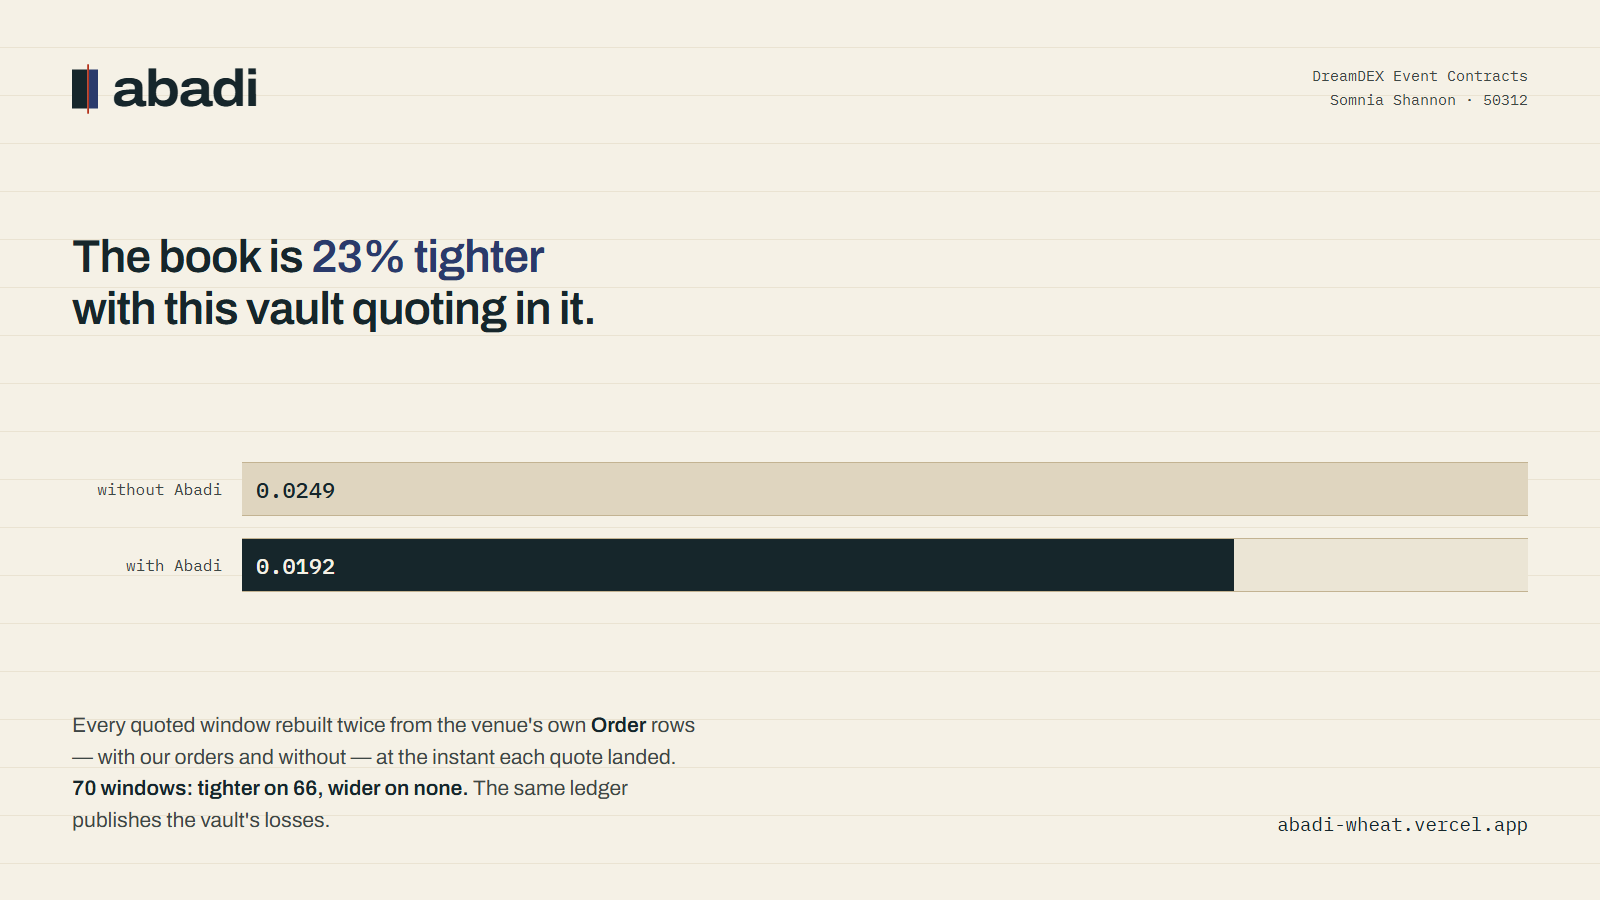
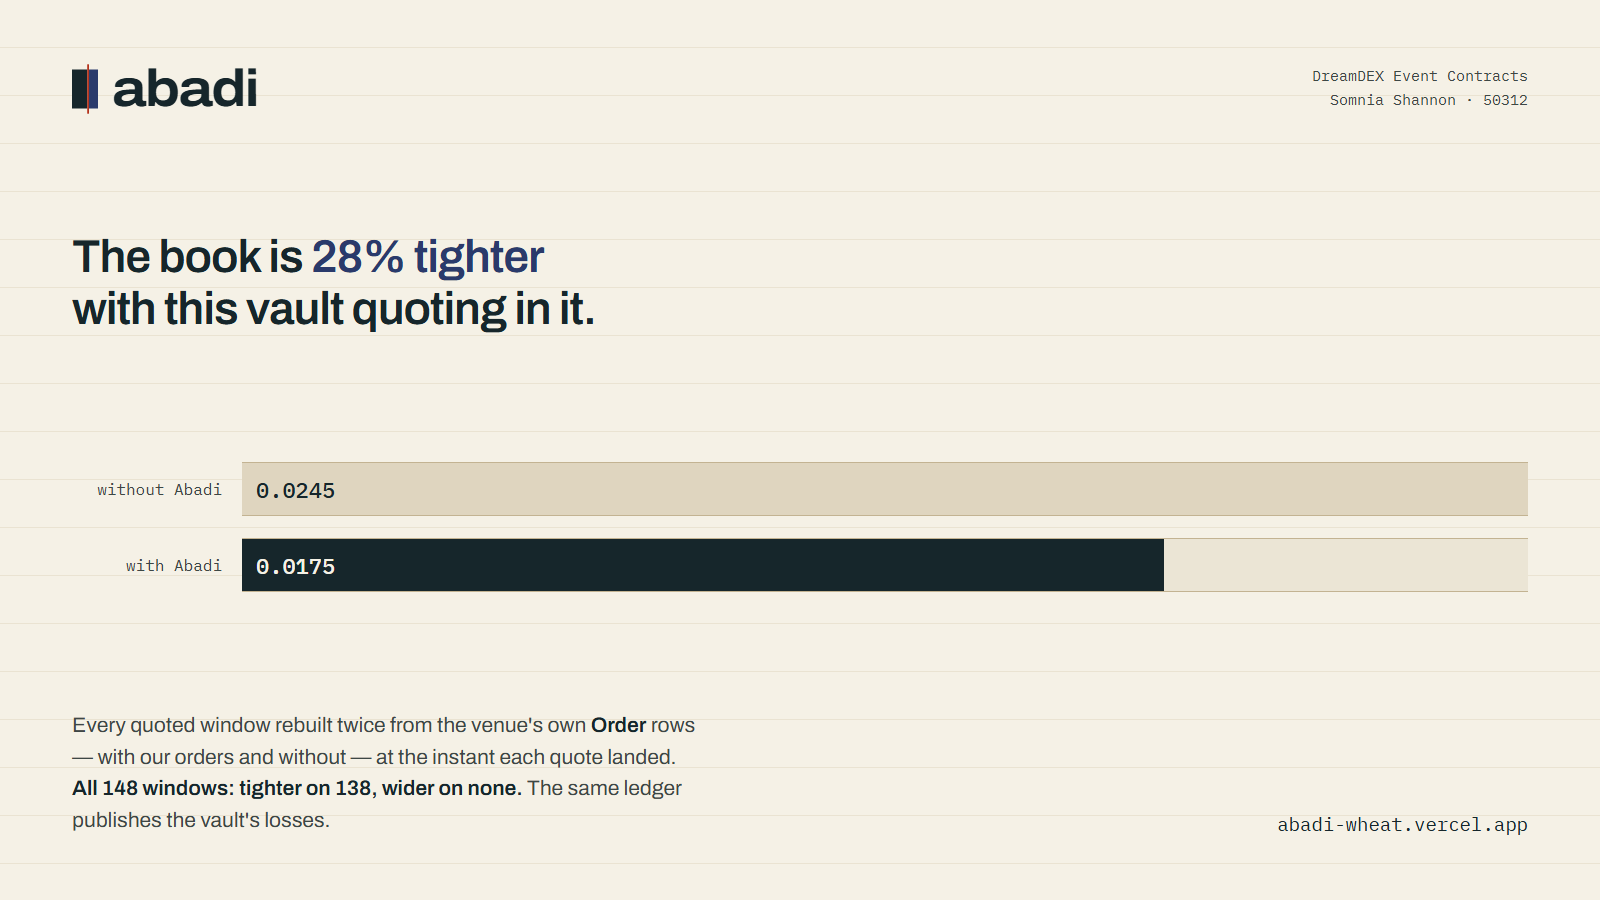
Every window, not seventy of them: the book is 28% tighter
The measurement that has been the headline of this project ran to completion for the
first time. 148 windows, 148 scored, none refused, in 76 minutes.

    without Abadi   0.0245   24.48 ticks
    with Abadi      0.0175   17.55 ticks
    difference      0.0069    6.93 ticks tighter, 28% narrower

Tighter on 138, unchanged on 10, widened on 0.

The 2026-08-31 figure it replaces — 0.0249 vs 0.0192, 5.8 ticks, 23% — was 70 windows
out of the 72 that existed, two lost to indexer timeouts. Every place that cited it said
"70 windows" carefully, and SUBMISSION.md carried an explicit instruction not to call
them "every window we have quoted", because they were not.

They are now. That instruction is replaced by the condition that earns it: the sentence
is true only while the run behind it refuses nothing, and this one refused nothing.

Updated together, because a number that lives in seven places goes stale in six of them:
the hero, the README, both submission taglines (the 256-character one recounted at 252),
the pitch and Telegram drafts, llms.txt, the demo fact-check table, and the social card —
whose bar is redrawn to 71.7% because that is what 0.0175 is of 0.0245.

The evidence file is renamed to the day it was actually measured. It was called
impact-2026-09-07.md because that is when the task was created; every window in it was
read on the 8th.

Claude-Session: https://claude.ai/code/session_014GALnvE5t1w2idhVso9Kiv

Changed region(s): [[0.0312, 0.8711, 0.4375, 0.9022], [0.7188, 0.5911, 0.7812, 0.6533], [0.1875, 0.6222, 0.2188, 0.6533]]

diff --git a/app/page.tsx b/app/page.tsx
@@ -59,9 +59,10 @@ export default function Home() {
         <div className="offer">
           <div className="proof">
             <span className="k">measured</span>
-            <b>0.0249 → 0.0192</b>
+            <b>0.0245 → 0.0175</b>
             <span>the venue's own spread, without this vault and with it — rebuilt from its
-            order rows over 70 windows, tighter on 66 and wider on none</span>
+            order rows across every one of the 148 windows this vault has quoted, tighter
+            on 138 and wider on none</span>
           </div>
           <div className="acts">
             <a className="btn primary" href="/app">Open the app</a>

diff --git a/SUBMISSION.md b/SUBMISSION.md
@@ -38,22 +38,31 @@ Abadi
 
 **Vision** — the one paragraph that appears on the card. **The form's hard limit is 256
 characters**, not the ~350 this file said until the form refused a 331-character paragraph.
-This is 249, which leaves seven for a smart quote:
+This is 252, which leaves four:
 
 ```
-An ERC-4626 vault that market-makes DreamDEX Event Contracts holding no inventory: the pool mints a pair worth exactly 1 either way. Rebuilt from the venue's own order rows over 70 windows, the book is 23% tighter with Abadi in it. Losses published.
+An ERC-4626 vault that market-makes DreamDEX Event Contracts holding no inventory: the pool mints a pair worth exactly 1 either way. Rebuilt from the venue's own rows over all 148 windows it quoted, the book is 28% tighter with Abadi. Losses published.
 ```
 
 What went to make it fit, in order of what was least load-bearing: the mechanism sentence
 ("two opposite buys cross") — "holding no inventory" and "a pair worth exactly 1 either way"
-carry it between them — and "the ledger publishes the losses too" shortened to two words.
-What did NOT go: **70 windows**. The sample size is what makes 23% a measurement rather than
-a boast, and it is the one claim in this field nobody else makes.
+carry it between them — "order rows" to "rows", and "the ledger publishes the losses too"
+shortened to two words. What did NOT go: **all 148 windows**. The sample is what makes 28% a
+measurement rather than a boast, and it is the one claim in this field nobody else makes.
+
+The word to be careful with is **all**. The 2026-08-31 version said "70 windows" because 70
+was what that run scored — it lost two to indexer timeouts and there were 72. The
+2026-09-08 run scored every window this vault has ever quoted and refused none, which is a
+different and stronger sentence. Do not write "all" again without checking that the run
+behind it still refused nothing.
+
+Note that 28% is the mean spread across the 148, not a claim about each one: 138 tightened,
+10 were unchanged, none widened.
 
 If a shorter one is ever needed, this is 244:
 
 ```
-An ERC-4626 vault that market-makes DreamDEX Event Contracts holding no inventory: the pool mints a pair worth exactly 1 either way. Rebuilt from the venue's own order rows, the book is 23% tighter with Abadi in it. The ledger publishes losses.
+An ERC-4626 vault that market-makes DreamDEX Event Contracts holding no inventory: the pool mints a pair worth exactly 1 either way. Rebuilt from the venue's own order rows, the book is 28% tighter with Abadi in it. The ledger publishes losses.
 ```
 
 ⚠ **The earlier version of this paragraph opened "Twelve projects here read DreamDEX. Abadi
@@ -140,10 +149,10 @@ you would rather post from an X account, create it first — the field takes up 
 > price and a size and can do nothing else — it cannot move a token, and no function exists
 > that would let it.
 >
-> **What we can prove.** Rebuilding 70 of the windows we have quoted from the venue's own
-> order rows, twice — with our orders and without — the spread was 0.0249 without Abadi and
-> 0.0192 with it: 23% narrower, tighter on 66 of 70, wider on none. Measured 2026-08-31 and
-> published in `docs/evidence/impact-2026-08-31.txt`.
+> **What we can prove.** Rebuilding every window we have ever quoted from the venue's own
+> order rows, twice — with our orders and without — the spread was 0.0245 without Abadi and
+> 0.0175 with it: 28% narrower, tighter on 138 of 148, wider on none. Measured 2026-09-08,
+> all 148 scored and none refused, published in `docs/evidence/impact-2026-09-08.md`.
 >
 > **What we got wrong and fixed in public.** This project once published a +2.37% return.
 > The ledger was summing only the episodes that closed into a complete set, so it could not
@@ -186,10 +195,15 @@ takes tens of seconds. A full run is well over half an hour. It prints its progr
 stderr now, because an earlier version printed nothing at all until it finished and there
 was no way to tell work from a hang.
 
-The spread claim quoted above is the measurement of **2026-08-31**, dated as such everywhere
-it appears, with `docs/evidence/impact-2026-08-31.txt` behind it. Do not hold up the
-submission waiting for a fresher one, and do not describe the 70 windows as "every window we
-have quoted" — there are 224 episodes now.
+The spread claim quoted above is the measurement of **2026-09-08**, dated as such everywhere
+it appears, with `docs/evidence/impact-2026-09-08.md` behind it. It supersedes the
+2026-08-31 run, which scored 70 of 72 windows and is kept at
+`docs/evidence/impact-2026-08-31.txt` as the record of what was claimed then.
+
+"Every window we have quoted" is now literally true and was not true of the 70 — but it is
+true only while the run behind it refuses nothing. Windows are not episodes: 148 windows,
+224+ episodes, because the same window can be quoted more than once and the measurement
+takes each window at the instant our first order rested on it.
 
 The README, `app/deck/page.tsx` and `PRODUCT.md` all state test counts, and CI fails if any of
 them disagrees with `forge test`. If you add tests before submitting, update all three.
@@ -210,9 +224,9 @@ hackathon page. Paste this:
 > no inventory. Two opposite-side buys cross with no seller, the pool mints the pair, and a
 > complete set is worth exactly 1 either way the window resolves.
 >
-> The part I'd point at: I rebuilt 70 of the windows the vault quoted from the venue's own
-> order rows, twice — with our orders and without. Spread 0.0249 without, 0.0192 with.
-> Tighter on 66 of 70, wider on none. The book measurably improved because something was
+> The part I'd point at: I rebuilt every window the vault has quoted from the venue's own
+> order rows, twice — with our orders and without. Spread 0.0245 without, 0.0175 with.
+> Tighter on 138 of 148, wider on none. The book measurably improved because something was
 > resting in it.
 >
 > The ledger publishes the losses too: -498.19 realised on 21,931.45 of basis, 21% of

diff --git a/README.md b/README.md
@@ -356,12 +356,14 @@ bot skips arming and says so until then. `sweepNative` brings the reserve back o
   one cycle, one of them from a requote
 - **The book is measurably tighter because Abadi is in it.** Every window this project
   has quoted was rebuilt twice from the venue's own order rows — once with Abadi's orders
-  and once with them removed — at the instant our quote landed. Across **70 windows** the
-  spread was **0.0249 without us and 0.0192 with us: 5.8 ticks tighter, 23% narrower.**
-  It tightened on **66 of 70**, was unchanged on 4, and widened on none. Nothing here is
-  modelled or self-reported; which orders are ours is decided by the `owner` field the
+  and once with them removed — at the instant our quote landed. Across **all 148 windows
+  this vault has ever quoted** the spread was **0.0245 without us and 0.0175 with us: 6.9
+  ticks tighter, 28% narrower.** It tightened on **138 of 148**, was unchanged on 10, and
+  widened on none. Not a sample: the 2026-09-08 run scored **every** window and refused
+  none, where the 2026-08-31 run scored 70 of 72 and lost two to indexer timeouts.
+  Nothing here is modelled or self-reported; which orders are ours is decided by the `owner` field the
   venue itself writes. `node scripts/impact.ts` ·
-  [`docs/evidence/impact-2026-08-31.txt`](docs/evidence/impact-2026-08-31.txt)
+  [`docs/evidence/impact-2026-09-08.md`](docs/evidence/impact-2026-09-08.md)
 - **A one-sided fill is now closed, not carried, and two days of it are measured.** One
   leg fills, the book leaves, and the vault holds a direction worth 1 or 0 at settlement.
   `completeSet` crosses the book for the missing side with an IOC order, so the pair

diff --git a/docs/DEMO-SCRIPT.md b/docs/DEMO-SCRIPT.md
@@ -123,9 +123,9 @@ to be a day old — this table is the checklist for the next one, so it tracks t
 | Fill shape | 172 complete · 47 one-sided · 2 no fill · 2 open — **21% adverse** |
 | One-sided: carried vs completed | 26 carried at −30.12%, worst −100% · **14 completed at −0.98%**, worst −3.47% — `docs/evidence/completing-2026-09-06.md` |
 | Completion refusals | **126** (median pair 1.209, cheapest refused 1.061) |
-| Venue spread, without us vs with | 0.0249 vs 0.0192 over **70 windows, measured 2026-08-31** — tighter on 66, wider on **none**. Not "every window"; there are 224 episodes now |
+| Venue spread, without us vs with | 0.0245 vs 0.0175 over **all 148 windows, measured 2026-09-08** — tighter on 138, wider on **none**, and none refused. "Every window" is now accurate; windows are not episodes, and there are 224+ of those |
 | SDK issues filed | 16 |
-| Live vault | `0xF5571c653B142B87BB552FB212e244bd80693f24` — `attest.ts` says **MISMATCH** since `8cd803e`: the source is ahead of the chain by two guards, on purpose. The film does not state this either way, so nothing in it is wrong. |
+| Live vault | `0xF5571c653B142B87BB552FB212e244bd80693f24` — `attest.ts` says **MATCH**: 642 bytes differ, all of them inside the 1,248 bytes of immutables they are allowed to differ in. This line said MISMATCH until 2026-09-08; the 2026-09-07 redeploy is what closed the gap, by putting `SizeBelowFilled` and the bounded setters on chain. |
[1 lines of base64/hex data omitted]
 
 **Do not say "profitable".** Per share is below par and realised across every vault is

diff --git a/docs/evidence/impact-2026-09-08.md b/docs/evidence/impact-2026-09-08.md
@@ -1,0 +1,33 @@
+# The book with Abadi in it, and without
+
+469 orders this project has rested, across 148 windows.
+
+## Spread at the moment Abadi's quote landed
+
+| | windows | mean spread | in ticks |
+|---|---|---|---|
+| the book as it was | 148 | 0.0245 | 24.5 |
+| the book with Abadi in it | 148 | 0.0175 | 17.5 |
+| **difference** | | **-0.0069** | **-6.9** |
+
+Abadi tightened the book on **138 of 148** windows, left it unchanged on 10, and widened it on 0.
+
+Widening is not a failure mode here and it is left in rather than filtered out: a
+quote resting outside the incumbent's touch does not move the touch, and a maker
+that only ever quoted inside would be a maker that never quoted when the spread was
+already tight.
+
+## The widest ten, by how much they tightened
+
+| window | without Abadi | with Abadi | ticks tighter |
+|---|---|---|---|
+| …00bf30 | 0.030 | 0.004 | 26.0 |
+| …012e82 | 0.027 | 0.002 | 25.0 |
+| …010a16 | 0.027 | 0.002 | 25.0 |
+| …00c5b9 | 0.030 | 0.006 | 24.0 |
+| …00f114 | 0.030 | 0.006 | 24.0 |
+| …014059 | 0.030 | 0.006 | 24.0 |
+| …01180b | 0.029 | 0.007 | 22.0 |
+| …014e29 | 0.029 | 0.008 | 21.0 |
+| …0152da | 0.028 | 0.009 | 19.0 |
+| …00c36b | 0.029 | 0.011 | 18.0 |
